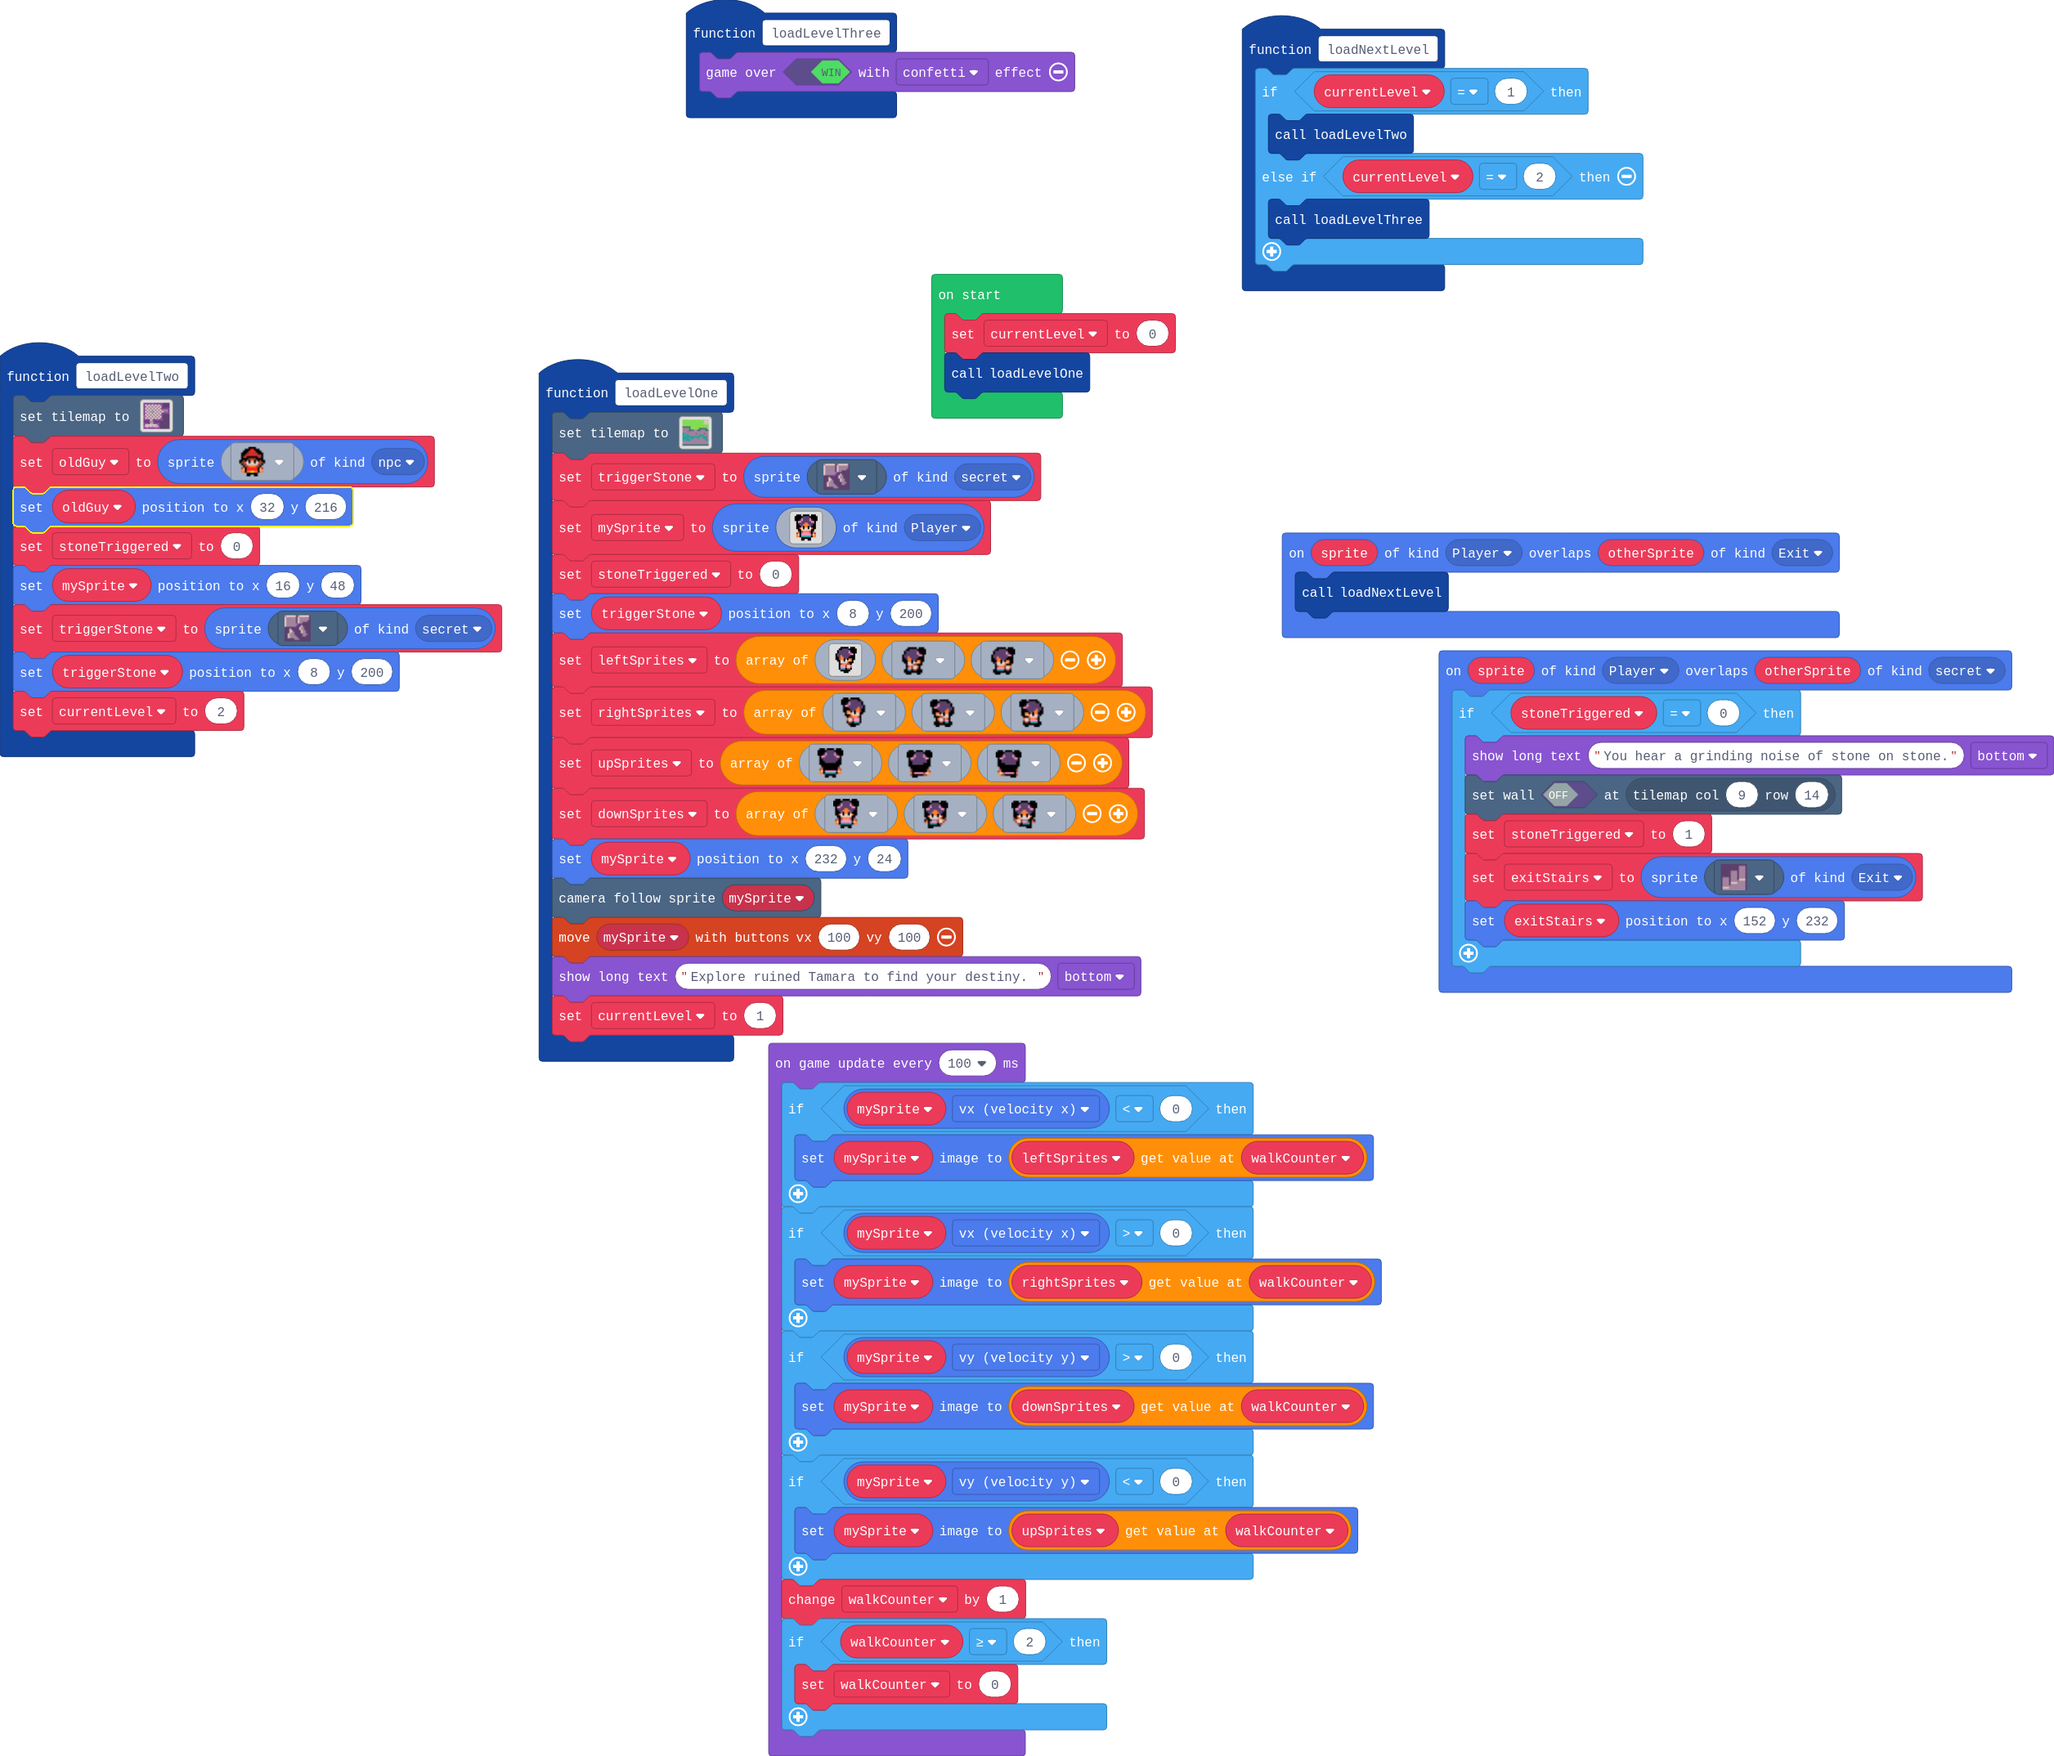
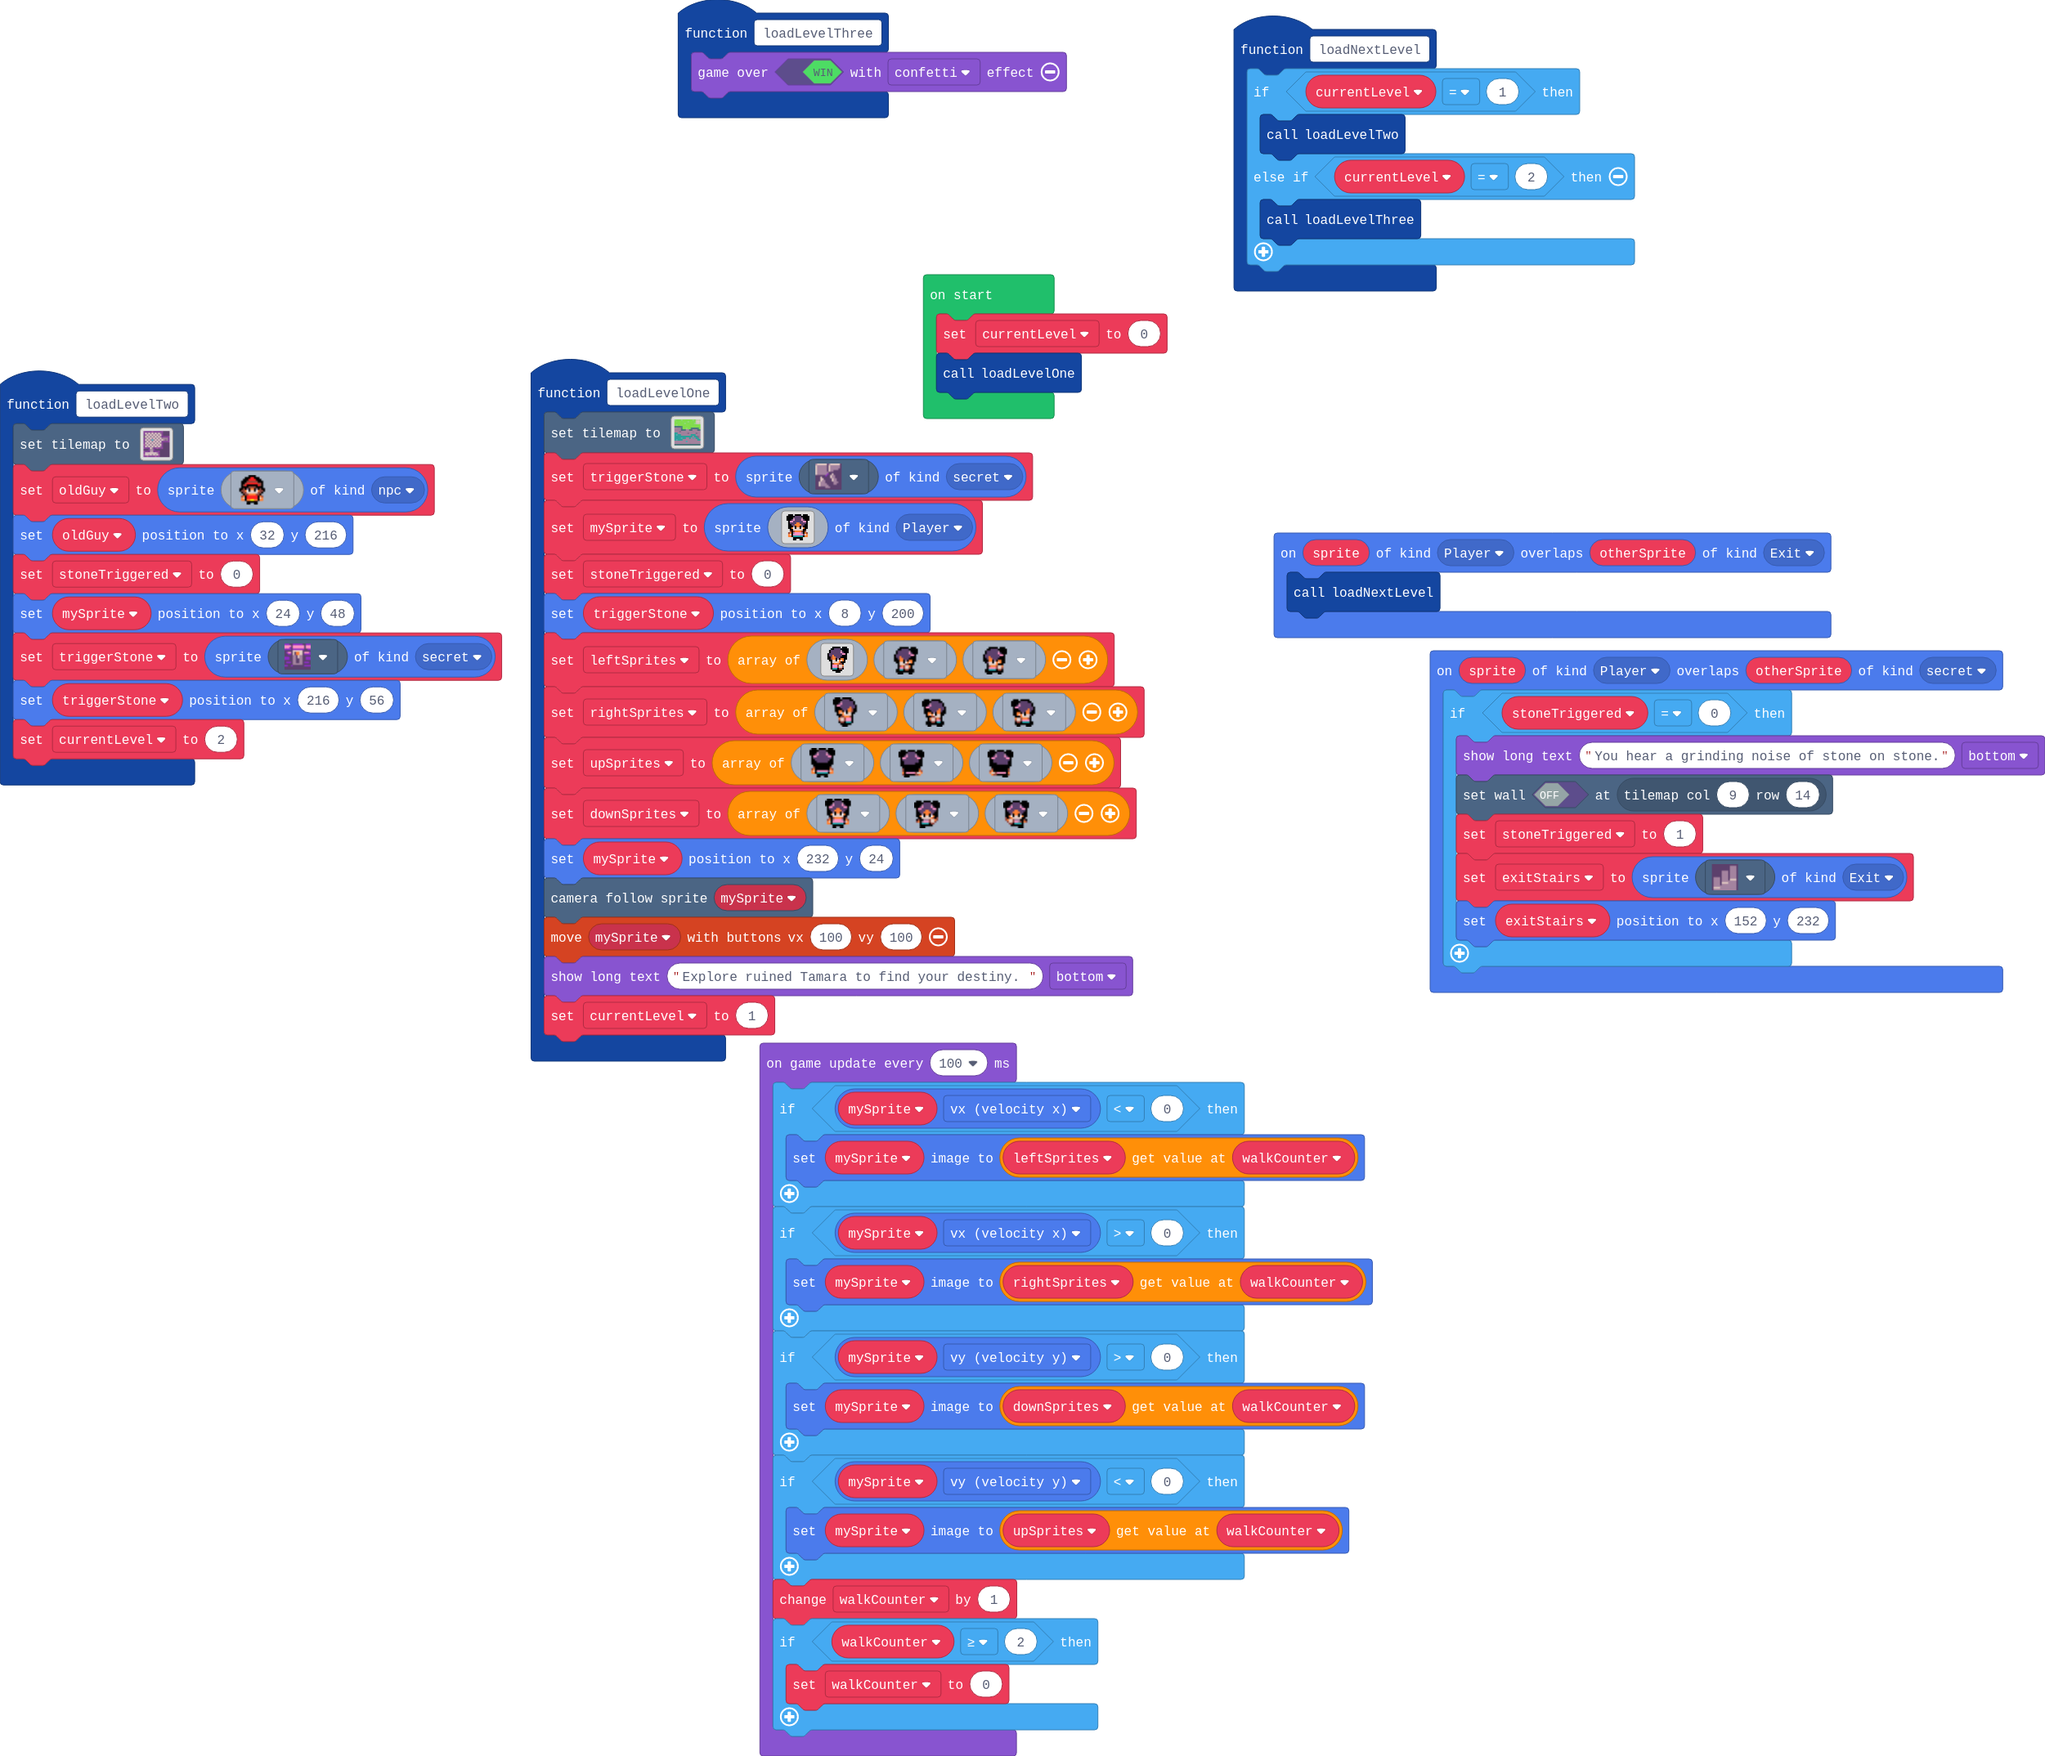
In progress: adding a working switch.

diff --git a/main.ts b/main.ts
@@ -28,6 +28,13 @@ namespace myTiles {
 function loadLevelThree () {
     game.over(true, effects.confetti)
 }
+function loadNextLevel () {
+    if (currentLevel == 1) {
+        loadLevelTwo()
+    } else if (currentLevel == 2) {
+        loadLevelThree()
+    }
+}
 function loadLevelTwo () {
     tiles.setTilemap(tiles.createTilemap(
[1 lines of base64/hex data omitted]
@@ -37,7 +44,7 @@ function loadLevelTwo () {
 2 . . . . . . . . . . 2 . . . . 
 2 . . . . . . . . . . 2 2 2 2 2 
 2 . . . . . . . . . . . . . . 2 
-2 . . . . . . . . . . . . . . 2 
+2 . . . . 2 . . . . . . . . . 2 
 2 . . . . . . . . . . 2 2 2 2 2 
 2 . . . . . . . . . . 2 . . . . 
 2 . . . . . . . . . . 2 . . . . 
@@ -55,11 +62,23 @@ function loadLevelTwo () {
     oldGuy = sprites.create(sprites.castle.heroWalkFront3, SpriteKind.npc)
     oldGuy.setPosition(32, 216)
     stoneTriggered = 0
-    mySprite.setPosition(16, 48)
-    triggerStone = sprites.create(sprites.dungeon.floorDark3, SpriteKind.secret)
-    triggerStone.setPosition(8, 200)
+    mySprite.setPosition(24, 48)
+    triggerStone = sprites.create(sprites.dungeon.purpleSwitchUp, SpriteKind.secret)
+    triggerStone.setPosition(216, 56)
     currentLevel = 2
 }
+sprites.onOverlap(SpriteKind.Player, SpriteKind.secret, function (sprite, otherSprite) {
+    if (stoneTriggered == 0) {
+        game.showLongText("You hear a grinding noise of stone on stone.", DialogLayout.Bottom)
+        tiles.setWallAt(tiles.getTileLocation(9, 14), false)
+        stoneTriggered = 1
+        exitStairs = sprites.create(sprites.dungeon.stairLarge, SpriteKind.Exit)
+        exitStairs.setPosition(152, 232)
+    }
+})
+sprites.onOverlap(SpriteKind.Player, SpriteKind.Exit, function (sprite, otherSprite) {
+    loadNextLevel()
+})
 function loadLevelOne () {
     tiles.setTilemap(tiles.createTilemap(
[1 lines of base64/hex data omitted]
@@ -132,31 +151,12 @@ f f f c 3 c c c c 3 c f f f
     game.showLongText("Explore ruined Tamara to find your destiny. ", DialogLayout.Bottom)
     currentLevel = 1
 }
-function loadNextLevel () {
-    if (currentLevel == 1) {
-        loadLevelTwo()
-    } else if (currentLevel == 2) {
-        loadLevelThree()
-    }
-}
-sprites.onOverlap(SpriteKind.Player, SpriteKind.secret, function (sprite, otherSprite) {
-    if (stoneTriggered == 0) {
-        game.showLongText("You hear a grinding noise of stone on stone.", DialogLayout.Bottom)
-        tiles.setWallAt(tiles.getTileLocation(9, 14), false)
-        stoneTriggered = 1
-        exitStairs = sprites.create(sprites.dungeon.stairLarge, SpriteKind.Exit)
-        exitStairs.setPosition(152, 232)
-    }
-})
-sprites.onOverlap(SpriteKind.Player, SpriteKind.Exit, function (sprite, otherSprite) {
-    loadNextLevel()
-})
 let walkCounter = 0
-let exitStairs: Sprite = null
 let downSprites: Image[] = []
 let upSprites: Image[] = []
 let rightSprites: Image[] = []
 let leftSprites: Image[] = []
+let exitStairs: Sprite = null
 let triggerStone: Sprite = null
 let mySprite: Sprite = null
 let stoneTriggered = 0
